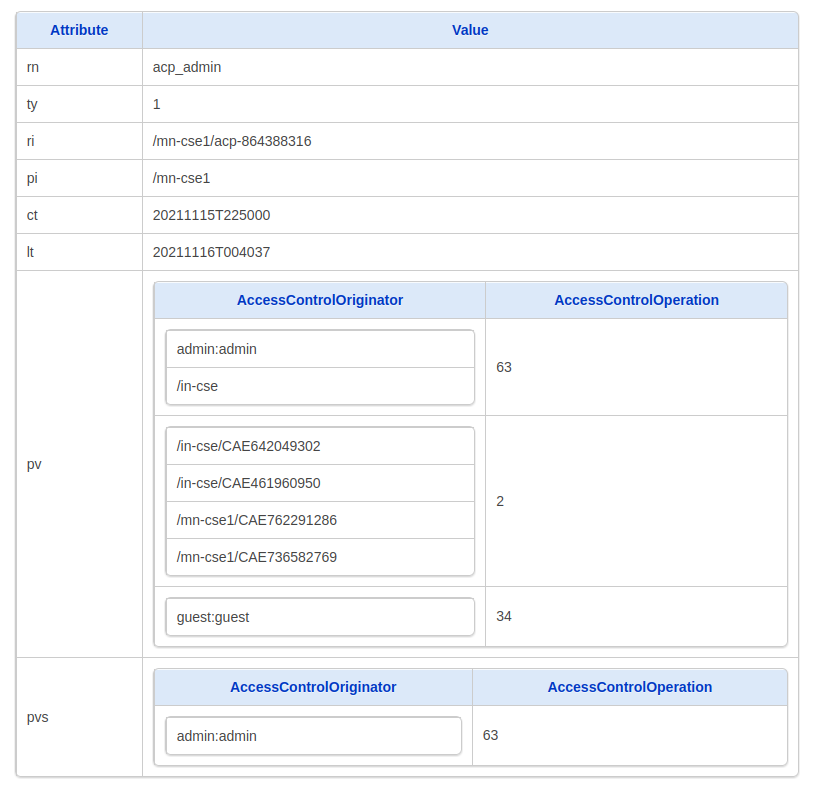
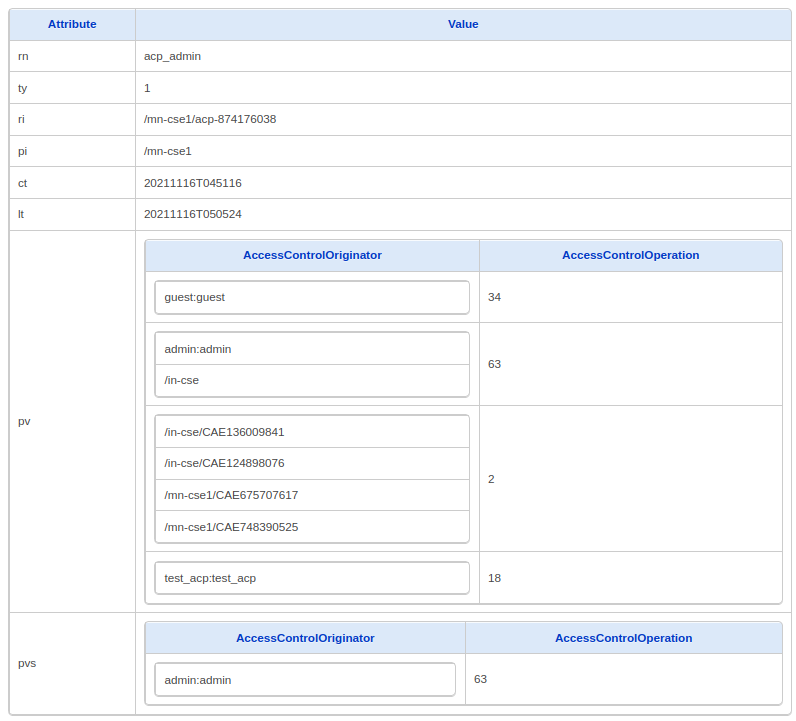
"added acp figure"

Changed region(s): [[0.0, 0.0, 0.995, 1.0]]

diff --git a/python_scripts/update_acp_mn_cse1.py b/python_scripts/update_acp_mn_cse1.py
@@ -24,7 +24,7 @@ for i in range(4):
     ri_list.append(ri["m2m:ae"]["ri"])
 
 
-acp_list  = [{"acor": ["admin:admin", "/in-cse"], "acop": "63"}, {"acor": "guest:guest", "acop": "34"}, {"acor": ri_list, "acop": "2"}, {"acor": "test_acp:test_acp", "acop": "34"}]
+acp_list  = [{"acor": ["admin:admin", "/in-cse"], "acop": "63"}, {"acor": "guest:guest", "acop": "34"}, {"acor": ri_list, "acop": "2"}, {"acor": "test_acp:test_acp", "acop": "18"}]
 acp_admin_ri = get_ri("http://127.0.0.1:8181/~/mn-cse1/academic_block/acp_admin")
 update_acp("http://127.0.0.1:8181/~"+ acp_admin_ri["m2m:acp"]["ri"], acp_list)
 

diff --git a/python_scripts/update_acp_mn_cse3.py b/python_scripts/update_acp_mn_cse3.py
@@ -23,7 +23,7 @@ for i in range(3):
     ri_list.append(ri["m2m:ae"]["ri"])
 
 
-acp_list  = [{"acor": ["admin:admin", "/in-cse"], "acop": "63"}, {"acor": "guest:guest", "acop": "34"}, {"acor": ri_list, "acop": "2"}, {"acor": "test_acp:test_acp", "acop": "34"}]
+acp_list  = [{"acor": ["admin:admin", "/in-cse"], "acop": "63"}, {"acor": "guest:guest", "acop": "34"}, {"acor": ri_list, "acop": "2"}, {"acor": "test_acp:test_acp", "acop": "18"}]
 acp_admin_ri = get_ri("http://127.0.0.1:8383/~/mn-cse3/isolation_ward/acp_admin")
 update_acp("http://127.0.0.1:8383/~"+ acp_admin_ri["m2m:acp"]["ri"], acp_list)
 

diff --git a/python_scripts/update_acp_mn_cse2.py b/python_scripts/update_acp_mn_cse2.py
@@ -22,7 +22,7 @@ for i in range(3):
     ri_list.append(ri["m2m:ae"]["ri"])
 
 
-acp_list  = [{"acor": ["admin:admin", "/in-cse"], "acop": "63"}, {"acor": "guest:guest", "acop": "34"}, {"acor": ri_list, "acop": "2"}, {"acor": "test_acp:test_acp", "acop": "34"}]
+acp_list  = [{"acor": ["admin:admin", "/in-cse"], "acop": "63"}, {"acor": "guest:guest", "acop": "34"}, {"acor": ri_list, "acop": "2"}, {"acor": "test_acp:test_acp", "acop": "18"}]
 acp_admin_ri = get_ri("http://127.0.0.1:8282/~/mn-cse2/dining_hall/acp_admin")
 update_acp("http://127.0.0.1:8282/~"+ acp_admin_ri["m2m:acp"]["ri"], acp_list)
 
